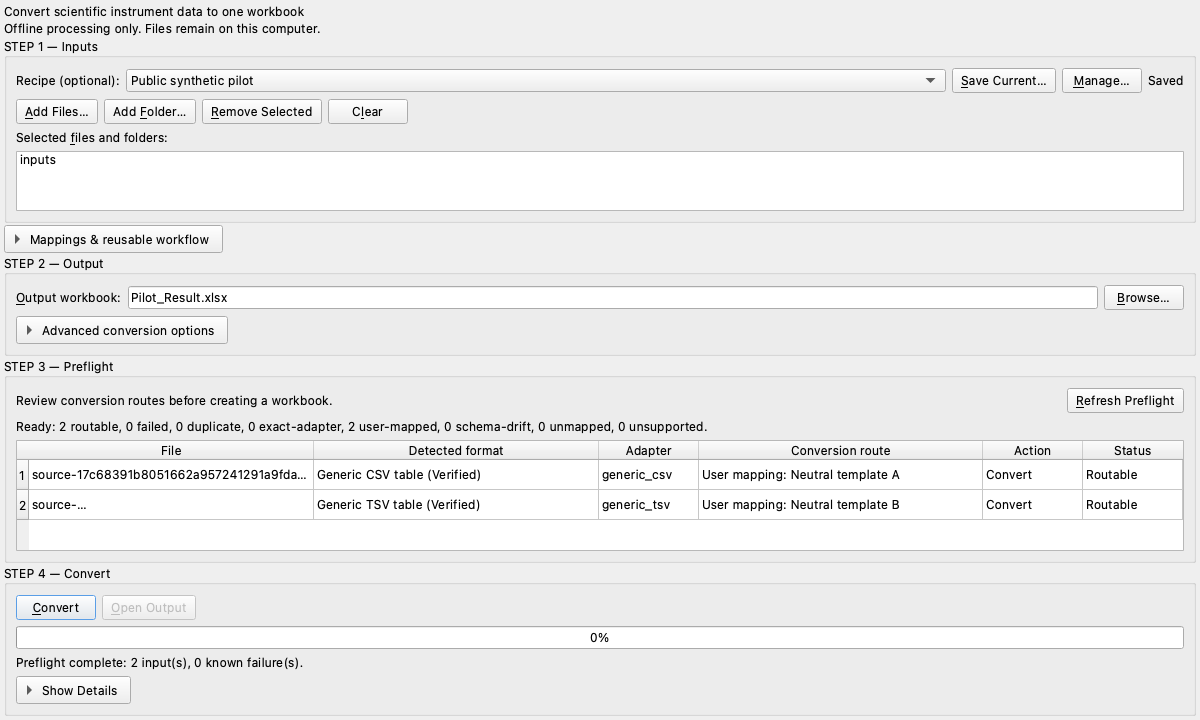
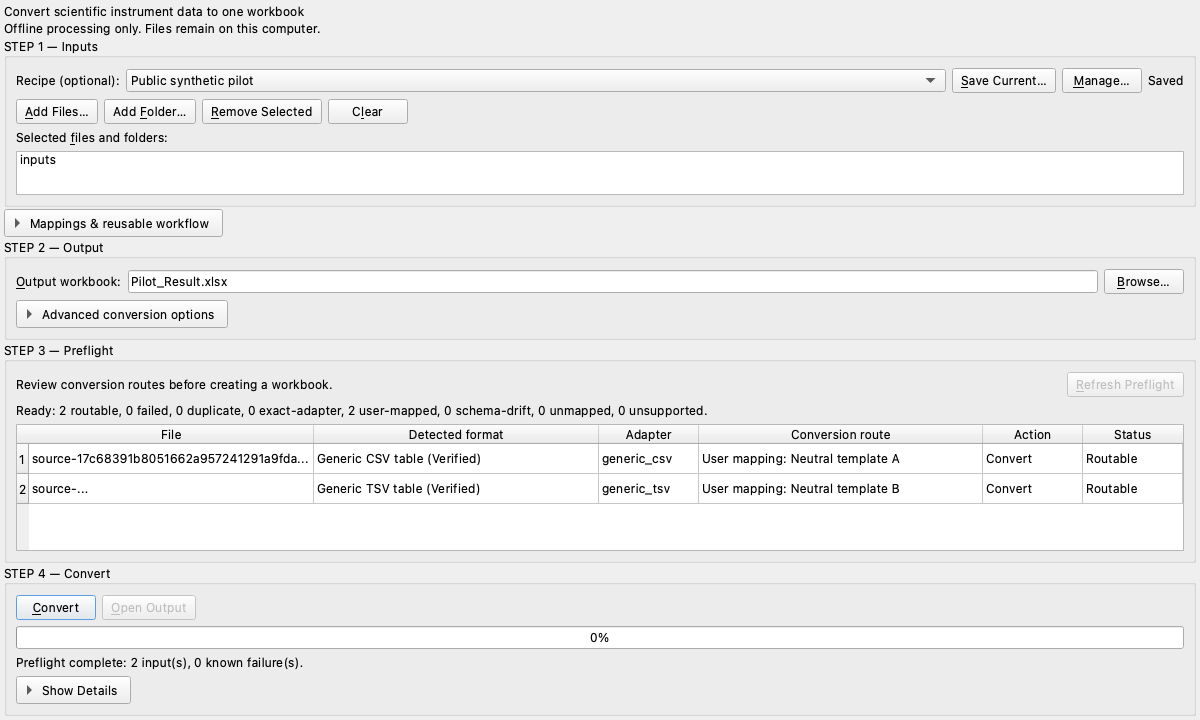
fix: keep the first-use workflow within compact displays

Changed region(s): [[0.0, 0.275, 0.9867, 0.7333], [0.8942, 0.3667, 0.9867, 0.4278], [0.9558, 0.275, 0.9867, 0.3056]]

diff --git a/src/ordifile/desktop/window.py b/src/ordifile/desktop/window.py
@@ -198,7 +198,7 @@ class MainWindow(QMainWindow):
         self.selection_list.setObjectName("selectionList")
         self.selection_list.setAccessibleName("Selected files and folders")
         self.selection_list.setSelectionMode(QAbstractItemView.SelectionMode.ExtendedSelection)
-        self.selection_list.setMaximumHeight(60)
+        self.selection_list.setMaximumHeight(44)
         selected_label.setBuddy(self.selection_list)
         inputs_layout.addWidget(selected_label)
         inputs_layout.addWidget(self.selection_list)
